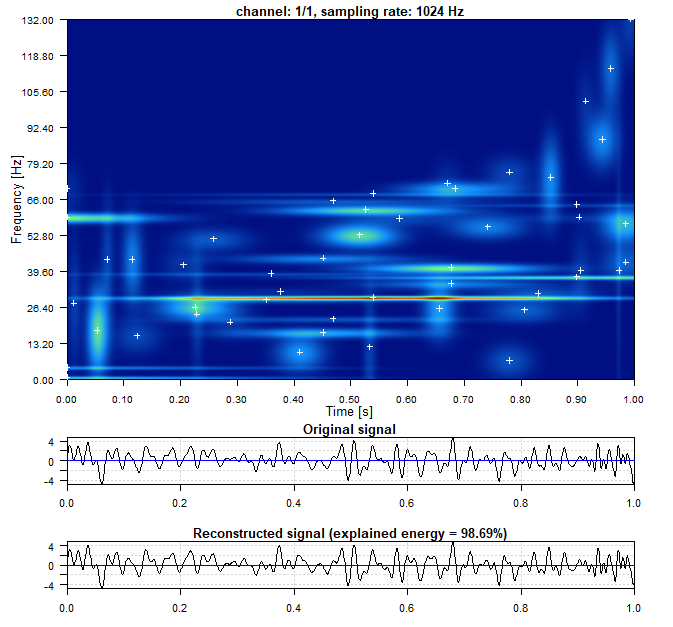
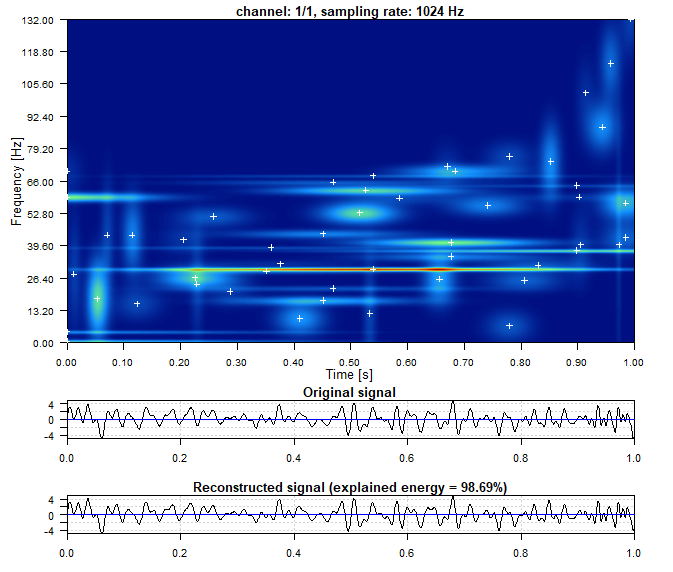
file changed

diff --git a/README.md b/README.md
@@ -13,6 +13,10 @@ Sparse signal decomposition framework for one- and multi-channel biomedical and
 general time-series data using the **Matching Pursuit** and **Orthogonal Matching Pursuit** 
 algorithms.
 
+The package provides three decomposition backends: native R implementations of MP and OMP 
+(**MP-R** and **OMP-R**), and the optional external **EMPI** backend for high-performance 
+MP decomposition.
+
 
 Supported features:
 
@@ -29,7 +33,7 @@ Supported features:
     - WFDB records
     - three standard EEG montages (bipolar, referential, and average-reference montages)
 - Plotting time-frequency maps for Gabor-based MP, OMP, and EMPI results
-- Pre-filtering signals using notch, low-pass, high-pass, band-pass, and band-stop filters
+- Signal preprocessing using notch, low-pass, high-pass, band-pass, and band-stop filters
 
 Note:
 
@@ -72,14 +76,14 @@ plot(out_mp, channel = 1)
 
 If `dictionary = NULL`, an XML Gabor dictionary specification is generated internally.
 
-The below time–frequency map shows the energy distribution of the selected atoms. 
+The time–frequency map below shows the energy distribution of the selected atoms. 
 White crosses indicate the centers of individual time–frequency blobs, i.e. 
 the atoms' central time and central frequency coordinates. The panels below 
 show the original signal and its reconstruction; in this example, the reconstruction 
 explains 98.69% of the signal energy.
 
 <p align="center">
-  <img src="man/figures/mp.png" width="800">
+  <img src="man/figures/mp.png" width="700">
 </p>
 
 ### EMPI
@@ -107,7 +111,7 @@ time and frequency, while the reconstructed signal closely follows the original
 waveform. In this case, the selected atoms explain 98.96% of the signal energy.
 
 <p align="center">
-  <img src="man/figures/empi.png" width="800">
+  <img src="man/figures/empi.png" width="700">
 </p>
 
 ### Decomposition with a custom dictionary
@@ -148,10 +152,10 @@ two iterations, the residual energy is effectively zero.
 
 ## Educational OMP implementation
 
-For small illustrative examples, `omp_reference()` provides a transparent 
-educational implementation that follows the mathematical formulation of OMP 
-explicitly, including least-squares coefficient updates and residual orthogonality 
-checks.
+For small illustrative and validation examples, `omp_reference()` provides a 
+straightforward reference implementation that follows the mathematical 
+formulation of OMP explicitly, including least-squares coefficient updates 
+and residual orthogonality checks.
 
 ```r
 ref <- omp_reference(
@@ -245,7 +249,7 @@ such as Gabor-based MP/OMP and EMPI results.
 The complete code used to reproduce the analyses and results presented in the
 SoftwareX article is provided in:
 
-[`replication_script.R`](./replication_script.R)
+[`replication_script.R`](https://github.com/artur-gramacki/MatchingPursuit/blob/1.3.0/replication_script.R)
 
 The script includes signal generation, decomposition settings, reconstruction
 accuracy evaluation, runtime measurements, and the EEG example.
@@ -265,6 +269,13 @@ used biomedical formats:
 - CSV (generic signals)
 - EDF / EDF+ (EEG, ECG)
 - WFDB (physiological records)
+
+## Citation
+
+To cite MatchingPursuit in publications, use:
+```r
+citation("MatchingPursuit")
+```
 
 ## License
 
